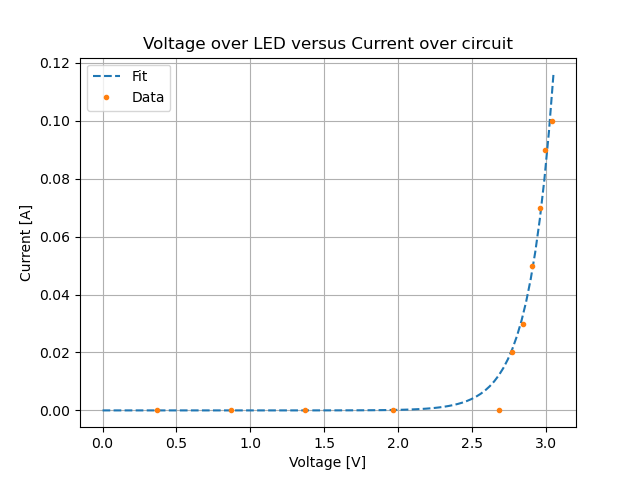
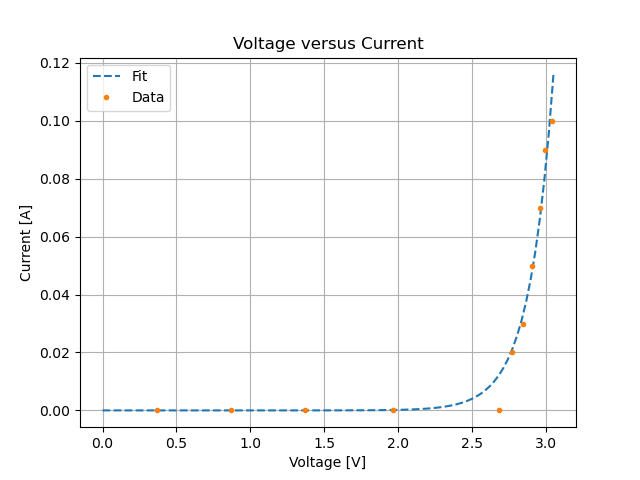
update

Changed region(s): [[0.2188, 0.0625, 0.8125, 0.125]]

diff --git a/FysC13/Led.py b/FysC13/Led.py
@@ -17,7 +17,7 @@ xlist = np.linspace(0, 3, 100)
 ylist = Expfit(xlist)
 print(constants)
 """ #Works but is off.
-def task1():
+def task1_1():
 	Voltage = np.array([3, 3.5, 4, 4.5, 5, 5.5, 6, 0.5, 1, 1.5, 2])
 	Vol_ovr = np.array([2.682, 2.772, 2.842, 2.905, 2.956, 2.99, 3.039, 0.365, 0.866, 1.372, 1.962])
 	Current = np.array([0, 0.02, 0.03, 0.05, 0.07, 0.09, 0.10, 0, 0, 0, 0])
@@ -35,7 +35,48 @@ def task1():
 	plt.legend()
 	plt.xlabel("Voltage [V]")
 	plt.ylabel("Current [A]")
-	plt.title("Voltage over LED versus Current over circuit")
+	plt.title("Voltage versus Current")
 	plt.savefig("Task1.png")
 	plt.show()
-#task1()
+#task1_1()
+
+def task1_2():
+	Voltage = np.array([3, 3.5, 4, 4.5, 5, 5.5, 6, 0.5, 1, 1.5, 2])
+	Vol_ovr = np.array([2.682, 2.772, 2.842, 2.905, 2.956, 2.99, 3.039, 0.365, 0.866, 1.372, 1.962])
+	Current = np.array([0, 0.02, 0.03, 0.05, 0.07, 0.09, 0.10, 0, 0, 0, 0])
+	Intnsty = np.array([0.03, 0.08, 0.13, 0.18, 0.21, 0.25, 0.29, 0, 0, 0, 0])
+	wavelength = 452 * 10 **(-9)
+	linearfit = pn.ForceLinearreg(Current, Intnsty)
+	xlist = np.linspace(0, max(Current), len(Current))
+	print(linearfit)
+	plt.plot(xlist, linearfit[0] * xlist, '--', label = "Linear fit to data-set")
+	plt.plot(Current, Intnsty, '.', label = "Data")
+	plt.xlabel("Current [A]")
+	plt.ylabel(r"Intensity $[\frac{W}{m^2}]$")
+	plt.title("Intensity versus Current")
+	plt.legend()
+	plt.savefig("Task1_2.png")
+	plt.show()
+#task1_2()
+
+def task1_3():
+	Voltage = np.array([3, 3.5, 4, 4.5, 5, 5.5, 6, 0.5, 1, 1.5, 2])
+	Vol_ovr = np.array([2.682, 2.772, 2.842, 2.905, 2.956, 2.99, 3.039, 0.365, 0.866, 1.372, 1.962])
+	Current = np.array([0, 0.02, 0.03, 0.05, 0.07, 0.09, 0.10, 0, 0, 0, 0])
+	Intnsty = np.array([0.03, 0.08, 0.13, 0.18, 0.21, 0.25, 0.29, 0, 0, 0, 0])
+	wavelength = 452 * 10 **(-9)
+	exp = lambda x, a, b: a*np.exp(x/b)-a
+	expfit, covarience = curve_fit(exp, Vol_ovr, Intnsty)
+	xlist = np.linspace(0, max(Vol_ovr), len(Vol_ovr) * 10)
+	ylist = expfit[0] * (np.exp(xlist/expfit[1]) - expfit[0])
+	plt.plot(xlist, ylist, '--', label = "Exponential fit to data-set")
+	print(expfit)
+	print(covarience)
+	plt.plot(Vol_ovr, Intnsty, '.', label = "Data")
+	plt.xlabel("Voltage [V]")
+	plt.ylabel(r"Intensity $[\frac{W}{m^2}]$")
+	plt.legend()
+	plt.title("Intensity versus Voltage")
+	plt.savefig("task1_3.png")
+	plt.show()
+#task1_3()
